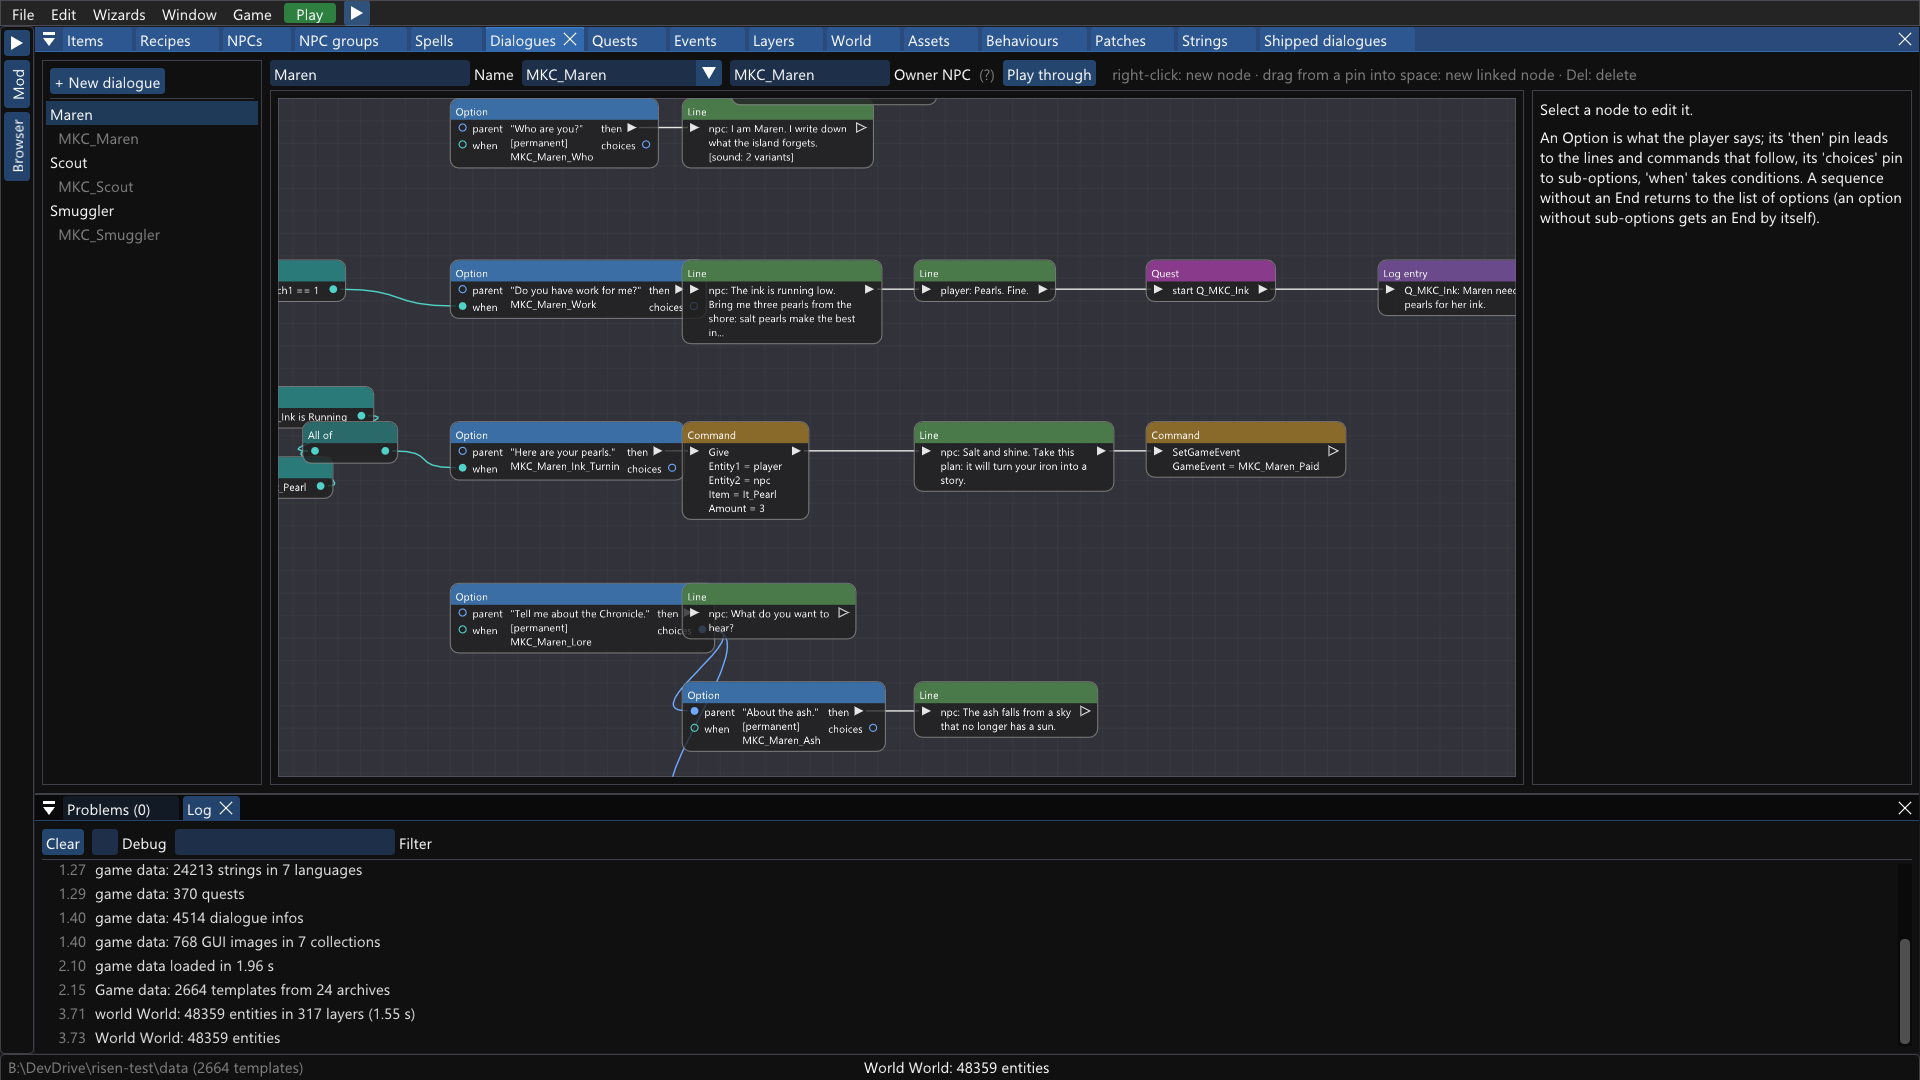
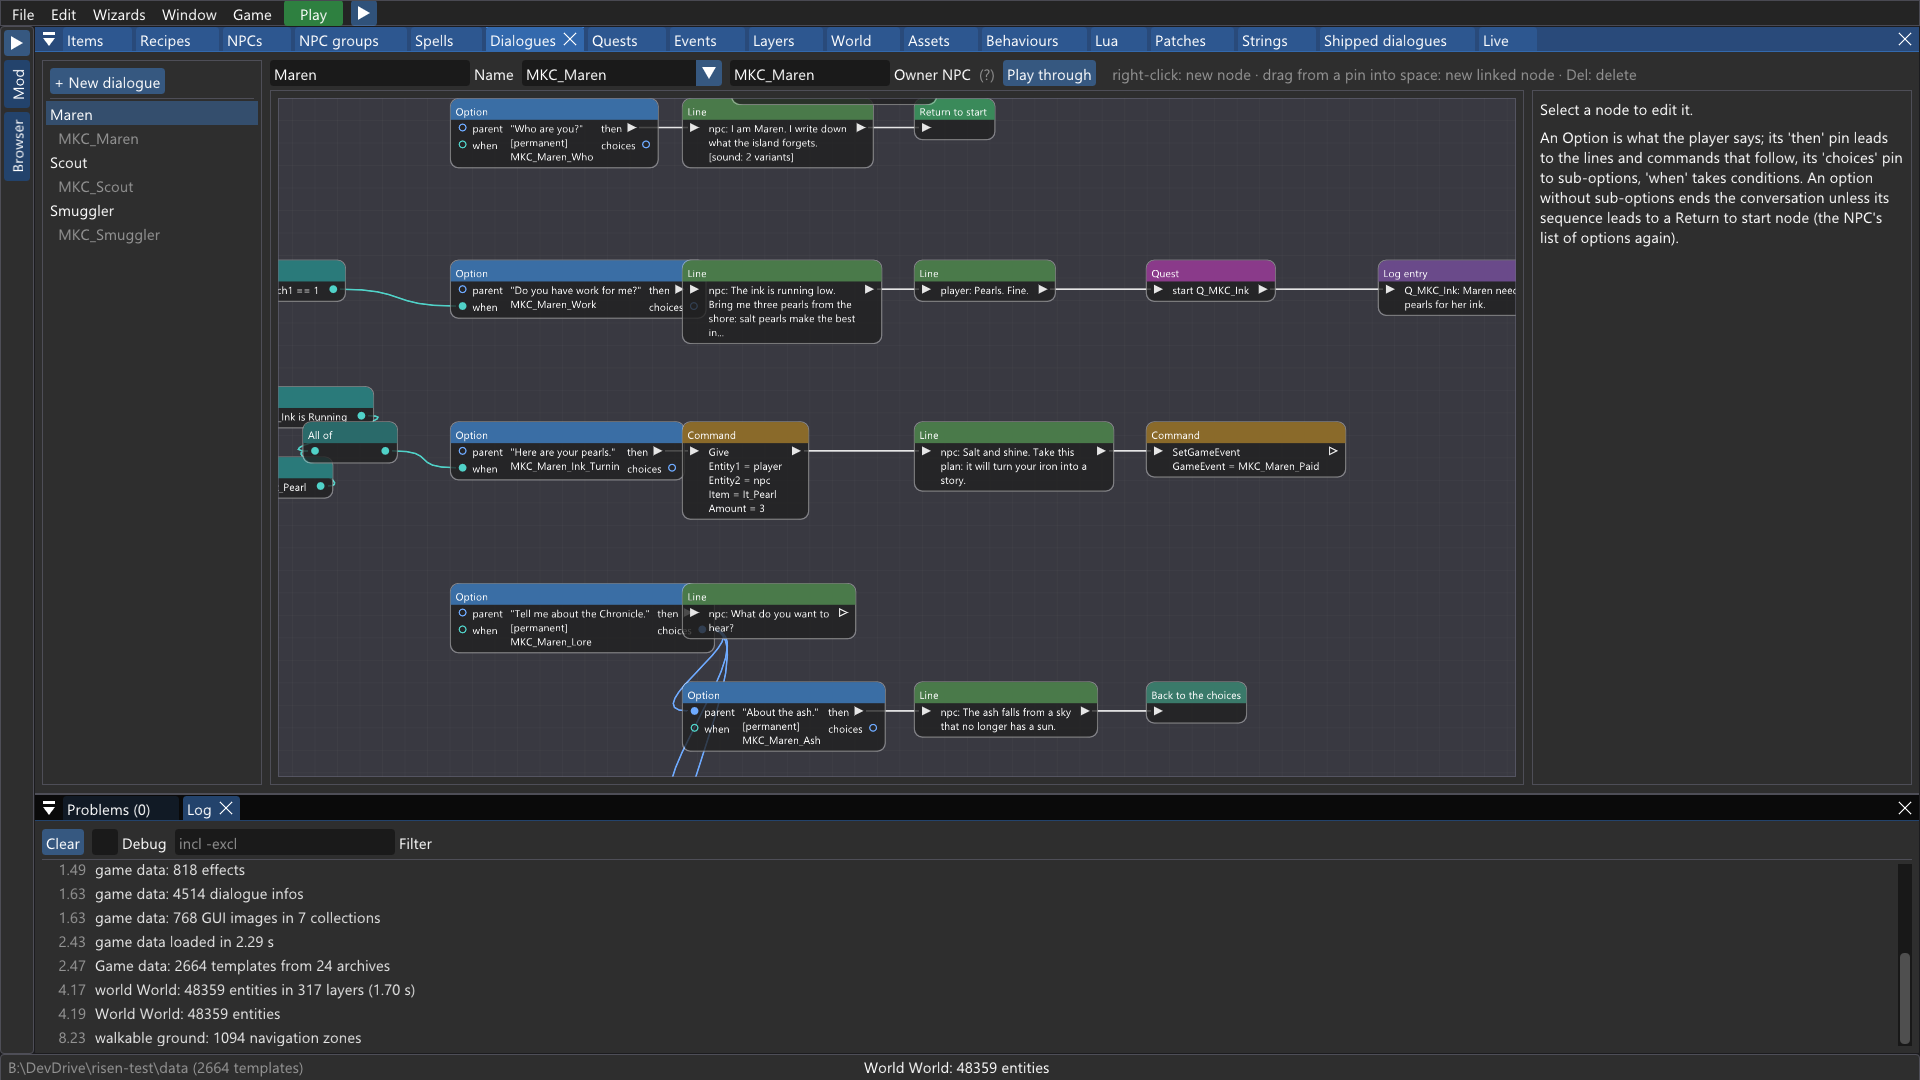
Editor docs: re-render all pictures for imgui 1.93; visible fields in dialogs
All 24 pictures of docs/modkit (Modding_With_ModKit.md, REQUIREMENTS.md)
rendered again with scripts/modkit-doc-shots.ps1: imgui 1.93's lighter dark
style, the current panels (Live, Paint, Lua tabs), and the live shot with a
running test game (Chronicle mod, live link).

- world: new camera. The World view draws the SpeedTree vegetation now and
  the old position sat inside a tree; the new one looks past the trees onto
  the beach with the AshCamp members.
- wizard: made with the Chronicle project like every other picture (was the
  showcase project, which also showed a problem).
- app.cpp: imgui 1.93 draws input fields (FrameBg 0.10) darker than windows
  (0.18) but popups and modal dialogs at 0.08, so the wizards' text boxes
  vanished. PopupBg is now 0.15, fields stand out in dialogs again.

diff --git a/src/modkit/app/app.cpp b/src/modkit/app/app.cpp
@@ -1082,6 +1082,9 @@ int App::run() {
     io.IniFilename = options.screenshot.empty() ? ini_path.c_str() : nullptr;
     ImGui::StyleColorsDark();
     ImGuiStyle& style = ImGui::GetStyle();
+    // imgui 1.93's dark style draws input fields (FrameBg 0.10) darker than the windows (0.18) but popups and modal dialogs
+    // at 0.08, where the fields vanish (the wizards' text boxes did): give popups a background the fields stand out from
+    style.Colors[ImGuiCol_PopupBg] = ImVec4(0.15f, 0.15f, 0.15f, 0.97f);
     style.WindowRounding = 4;
     style.FrameRounding = 3;
     style.GrabRounding = 3;
